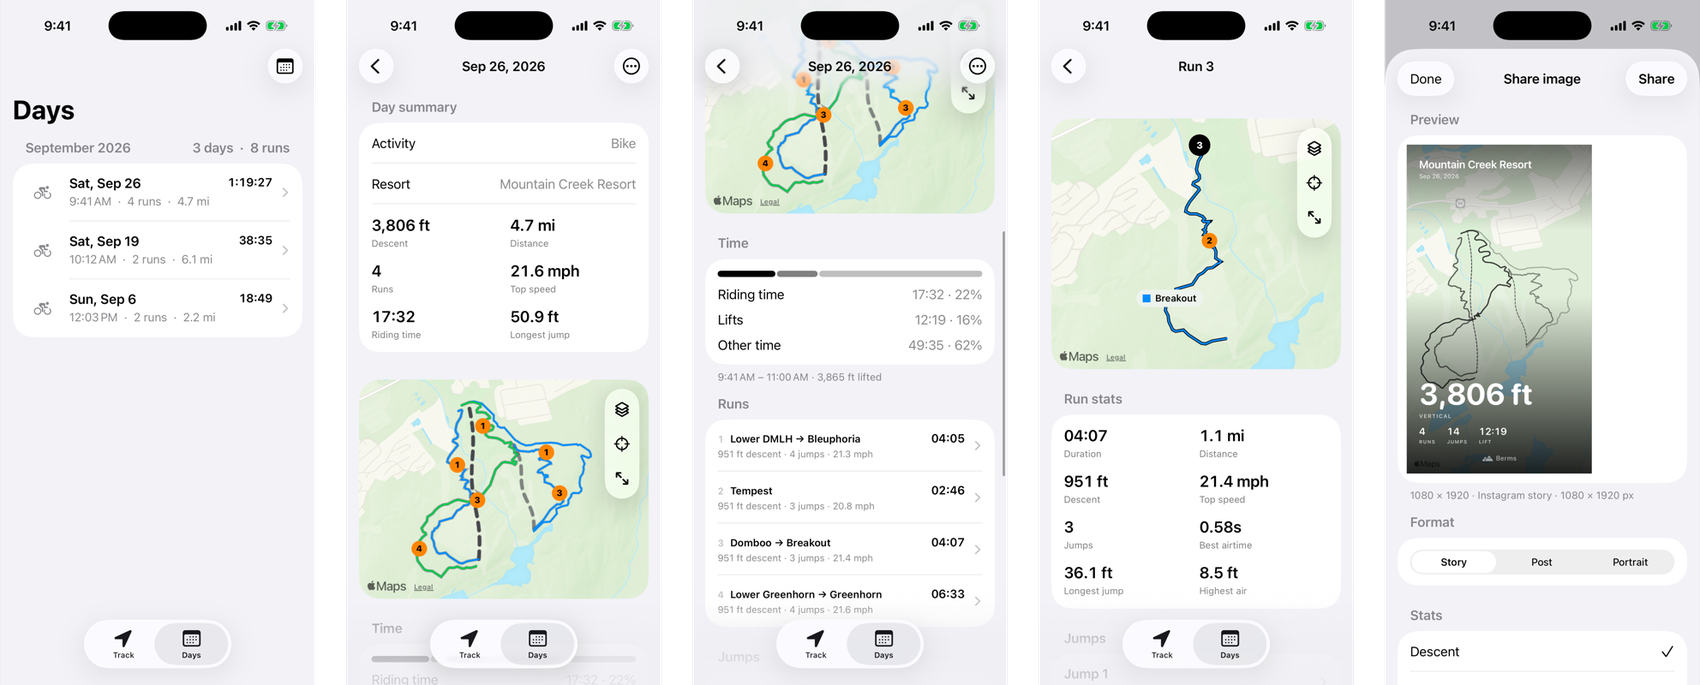
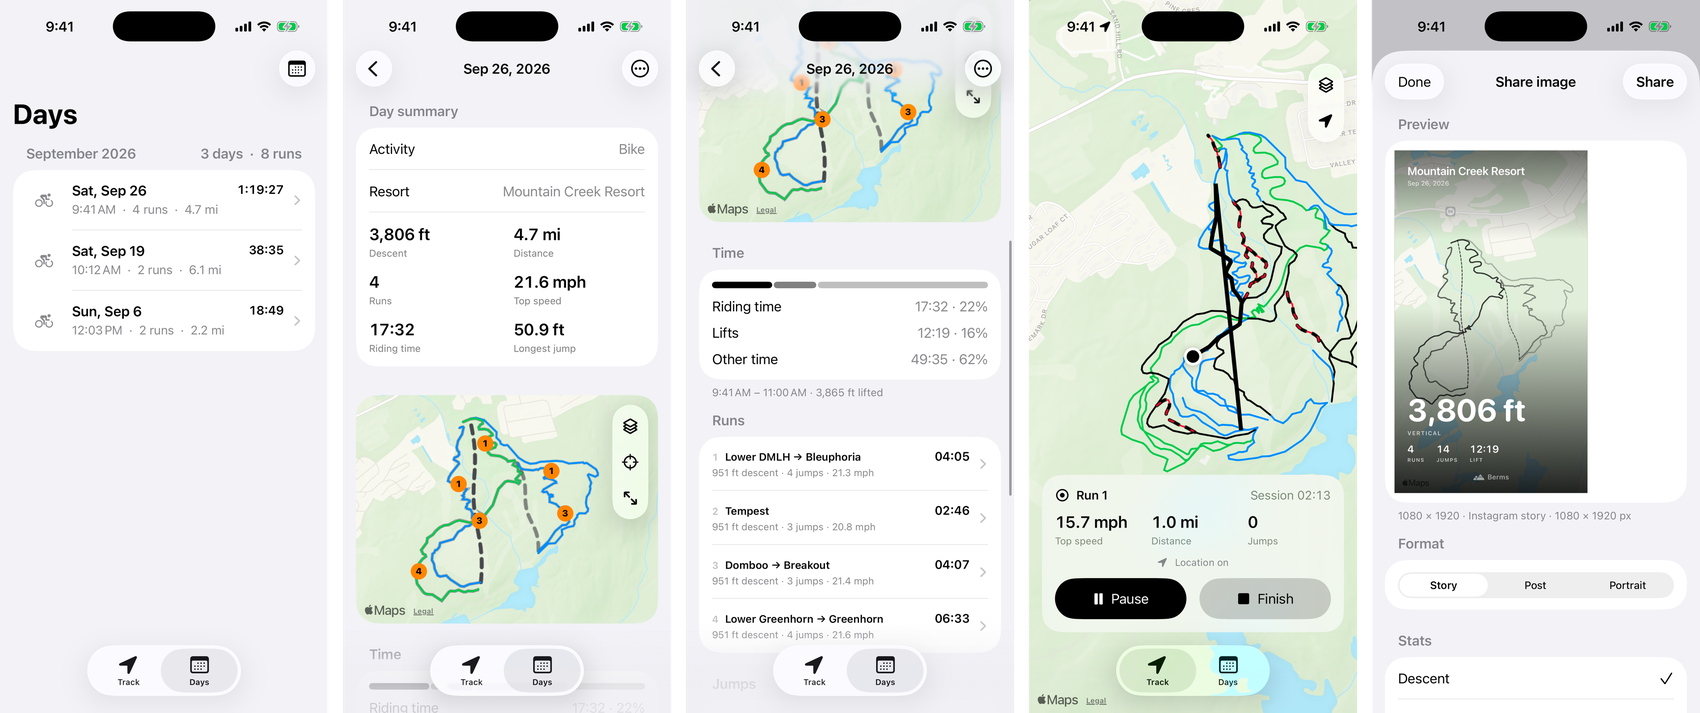
docs: add watch and studio screenshots to readme

diff --git a/README.md b/README.md
@@ -35,9 +35,13 @@ The Days tab keeps a day-by-day archive with a month calendar and jump-to-date. 
 
 The watch app mirrors the live session: heart rate, top speed, jump airtime, run count, and phone connection status, with pause, resume, finish, and Water Lock controls. Heart rate is collected through a workout session on the watch and is not written to Health as a duplicate workout. A Live Activity on the Lock Screen and Dynamic Island shows the current run and stats, and can pause or resume without opening the app.
 
+![Berms watch app controls and live stats](docs/screenshots/watch.png)
+
 ## BermsStudio
 
 A separate macOS app for post-ride video. Drop in GoPro clips and a Berms day export, and it matches footage to runs by timestamp, lets you trim clips per run, and exports stitched videos or clips renamed by day, run, and trail. Requires `ffmpeg` and `ffprobe`.
+
+![BermsStudio session list and run detail](docs/screenshots/studio.png)
 
 ## Privacy
 
